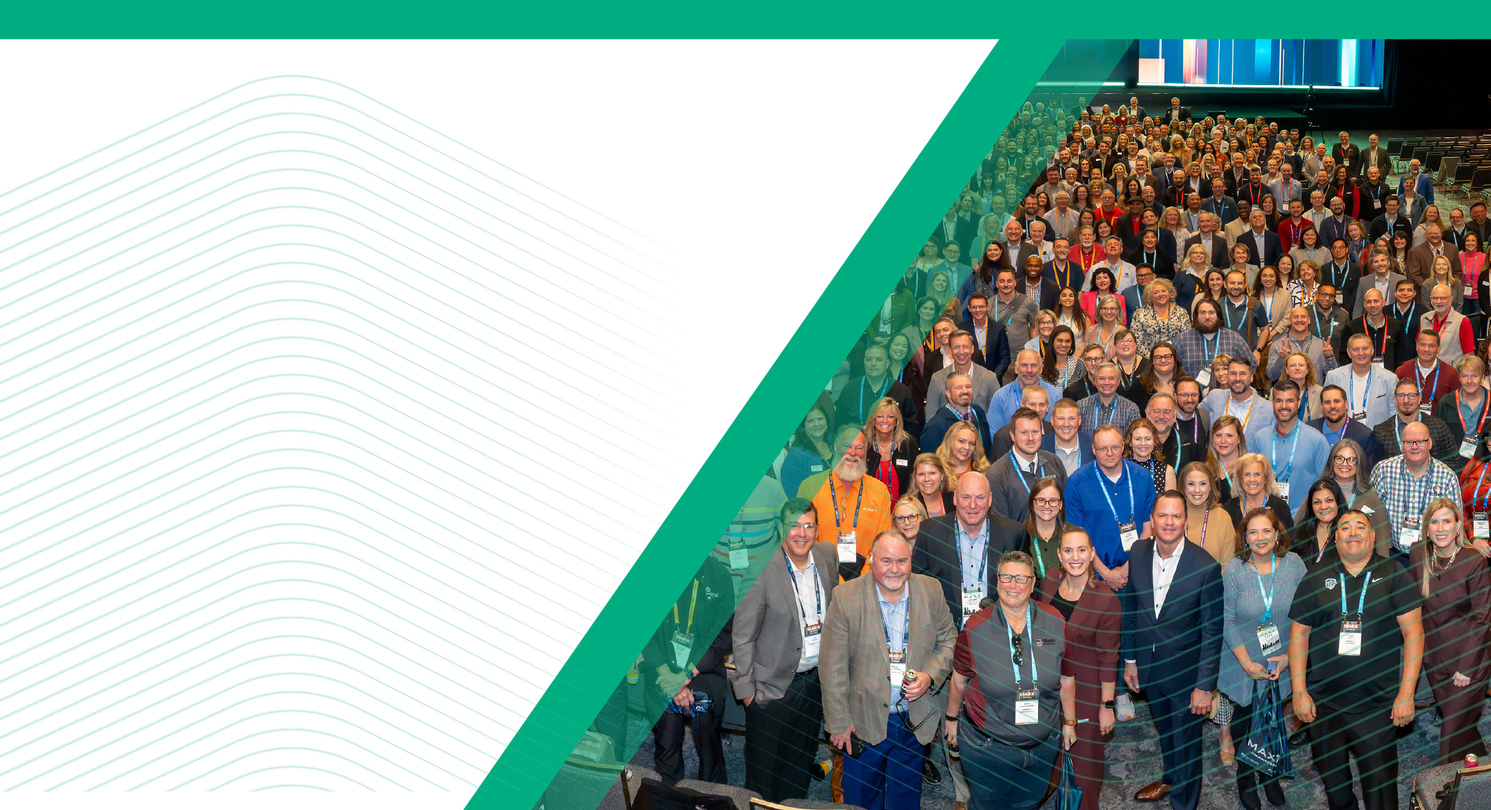
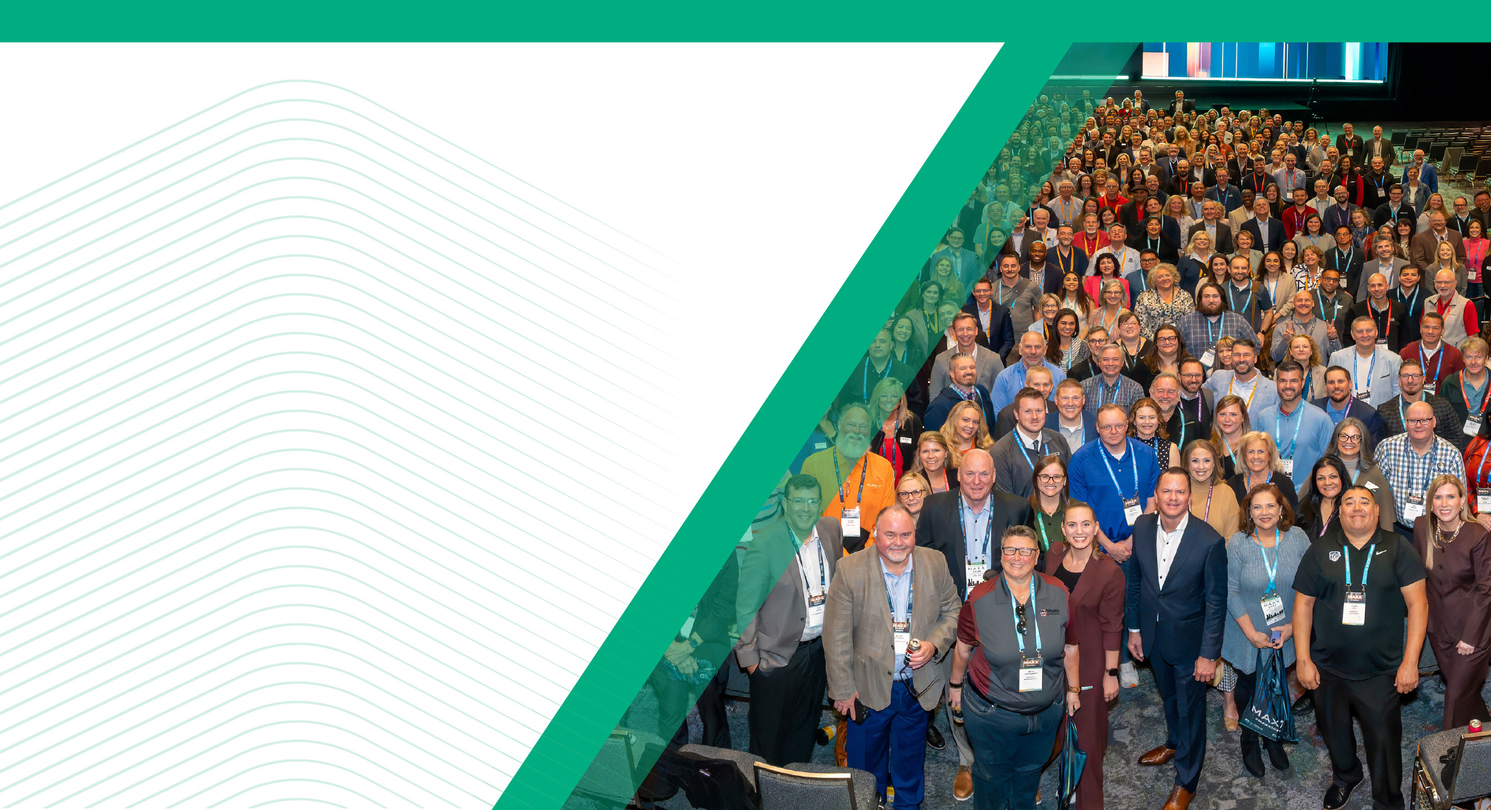
Replace grassroots image again.

diff --git a/css/main.css b/css/main.css
@@ -1,1 +1,1 @@
[2 lines of base64/hex data omitted]

diff --git a/css/src/main-unprefixed.css b/css/src/main-unprefixed.css
@@ -1,2 +1,2 @@
[2 lines of base64/hex data omitted]
 /*# sourceMappingURL=main-unprefixed.css.map */

diff --git a/css/src/main.scss b/css/src/main.scss
@@ -523,12 +523,12 @@ section.advocacy-state {
 
 // grassroots advocacy
 section.advocacy-grassroots {
-	background: url(../img/bg-grassroots-2025.jpg?v=4) left center no-repeat;
+	background: url(../img/bg-grassroots-2025.jpg?v=5) left center no-repeat;
 	background-size: cover;
 	padding: 20px 20px 200px 20px;
 
 	@include respond-to( $bp-l ) {
-		background: url(../img/bg-grassroots-2025.jpg?v=4) center center no-repeat;
+		background: url(../img/bg-grassroots-2025.jpg?v=5) center center no-repeat;
 		background-size: cover;
 		padding: 20px 20px 300px 20px;
 	}

diff --git a/index.html b/index.html
@@ -6,7 +6,7 @@
 
 	<meta http-equiv="X-UA-Compatible" content="IE=edge" />
 	<meta name="viewport" content="width=device-width, initial-scale=1">
-	<link rel="stylesheet" href="css/main.css?v=10">
+	<link rel="stylesheet" href="css/main.css?v=11">
 	<script src="js/head.js?v=1"></script>
 </head>
 <body>
